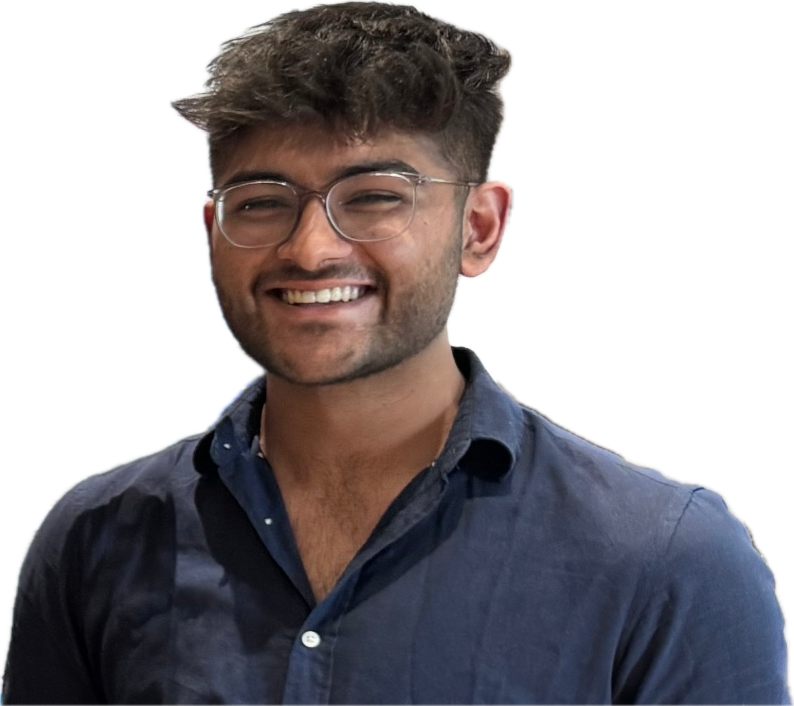
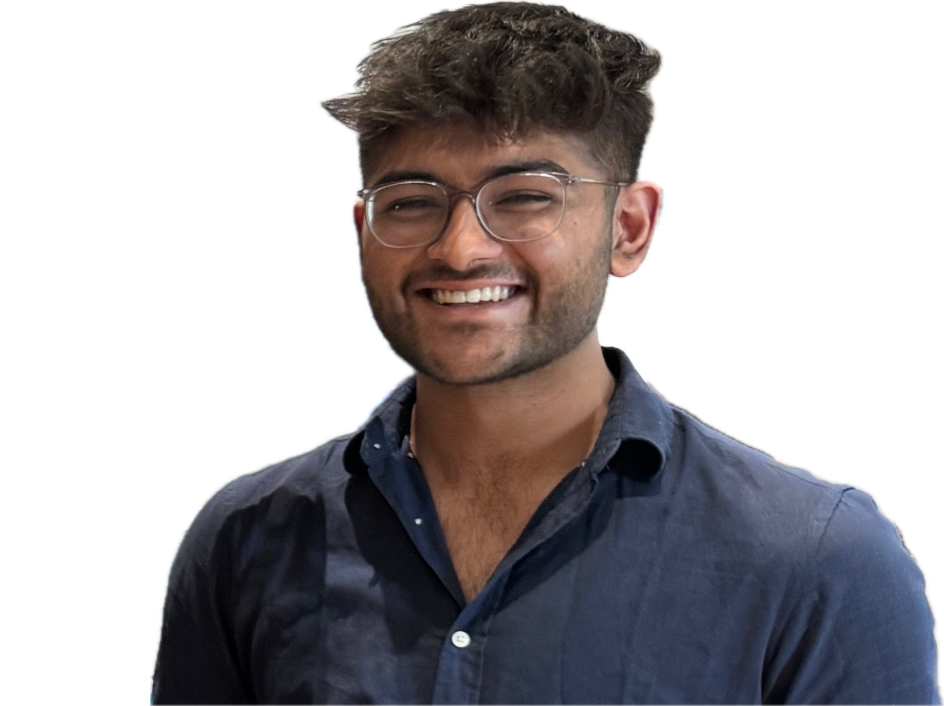
ProfileCard: center face (pad left), refill card (scale 1.45), all </> glyph pattern, clearer name/title gap

diff --git a/src/components/ui/profile-card.css b/src/components/ui/profile-card.css
@@ -267,7 +267,7 @@
      just under the title with the shoulders reaching the card edges. Origin
      is bottom-centre so it grows upward and stays anchored at the base. */
   transform: translateX(calc(-50% + (var(--pointer-from-left) - 0.5) * 6px))
-    translateZ(0) scale(1.22)
+    translateZ(0) scale(1.45)
     scaleY(calc(1 + (var(--pointer-from-top) - 0.5) * 0.02))
     scaleX(calc(1 + (var(--pointer-from-left) - 0.5) * 0.01));
   bottom: -1px;
@@ -392,6 +392,7 @@
   font-weight: 600;
   margin: 0;
   font-size: min(5svh, 3em);
+  line-height: 1.1;
   background-image: linear-gradient(to bottom, #fff, #6f6fbe);
   background-size: 1em 1.5em;
   -webkit-text-fill-color: transparent;
@@ -402,7 +403,9 @@
 .pc-details p {
   font-weight: 600;
   position: relative;
-  top: -12px;
+  /* was -12px; relaxed so the title sits clearly below the name with a
+     visible gap (our display font's tighter metrics needed this). */
+  top: 8px;
   white-space: nowrap;
   font-size: 16px;
   margin: 0 auto;
